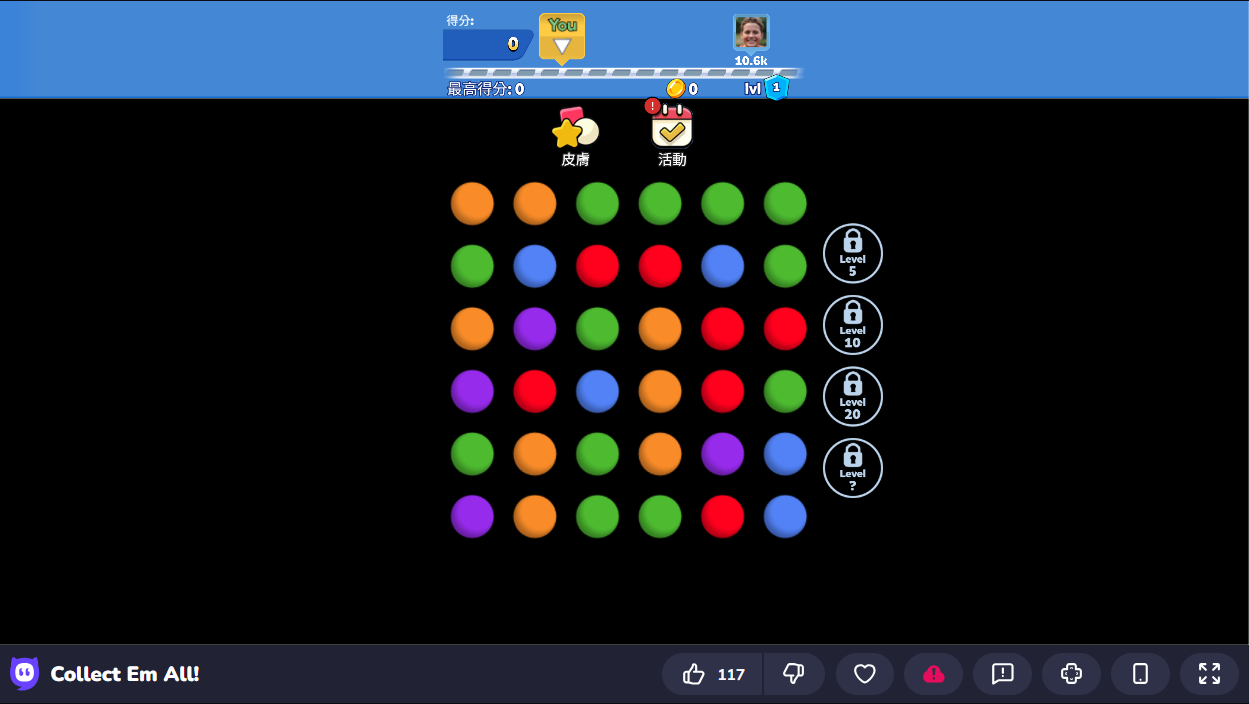
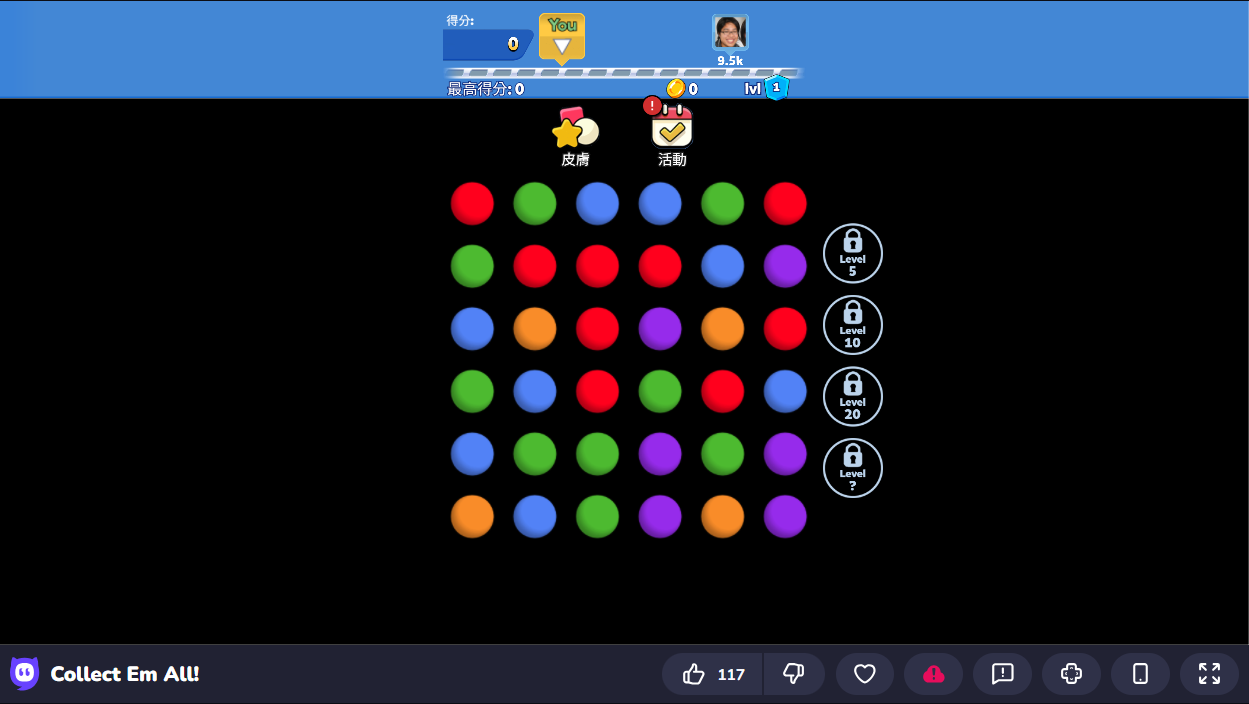
在main.py中加入DFS

diff --git a/main.py b/main.py
@@ -3,8 +3,18 @@ from enum import Enum
 from pyscreeze import Box
 from PIL import Image
 from typing import Any
+from keyboard import is_pressed
 from playwright.sync_api import sync_playwright, Playwright, Page
 import pyautogui, time
+
+"""
+遊戲規則:
+對於每個點 可以跟八方位的任一個點(要same color)連線
+至少要連3個點 連完之後的點會全數消除
+上面的點會在下面空缺時往下補 最上面空缺則會隨機生成
+不須考慮沒有點可以連線的情況 盡量尋找最長的連線
+有步數限制(暫不考慮) 每次都重新偵測球(避免受特殊規則影響)
+"""
 
 class Colors(Enum):
     # 各種顏色(RGB)
@@ -41,6 +51,12 @@ class Point:
         ''' 初始化座標 '''
         self.x: int = int(x)
         self.y: int = int(y)
+    
+    def near(self, other: Point) -> bool:
+        """ 檢查兩個點之間是否可以互通 """
+        if abs(other.x-self.x) > 1: return False
+        if abs(other.y-self.y) > 1: return False
+        return True
     
     @property
     def pair(self) -> tuple[int, int]:
@@ -155,13 +171,13 @@ def read_matrix(image_path: str = screenshot_path) -> None:
         for u_box in all_locations:
             # 計算兩個中心點的距離
             dist = ((box.left - u_box.left)**2 + (box.top - u_box.top)**2)**0.5
-            # 如果距離小於 n 像素，視為同一顆球
+            # 如果距離小於 n 像素 視為同一顆球
             if dist < 10:
                 is_duplicate = True
                 break
         if not is_duplicate:
             all_locations.append(box)
-    print(f"DEBUG: 原始找到 {len(locations)} 個點，去重後剩餘 {len(all_locations)} 顆球")
+    print(f"DEBUG: 原始找到 {len(locations)} 個點 去重後剩餘 {len(all_locations)} 顆球")
     if len(all_locations) != 36: raise RuntimeError("找不到6*6=36顆球")
     
     # 分成一個個 row 並加入 color_matrix && point_matrix
@@ -189,9 +205,9 @@ def drag_path(page: Page, points: list[Point]):
     page.mouse.move(*first_point.pair)
     page.mouse.down()
     print(f"DEBUG: 在 {first_point} 按下滑鼠")
-    # 迴圈拖曳
-    for point in points[1:]: # 跳過第一個 (只要按下去，不用拖曳)
-        # 拖曳 (step是移動平滑度，可以調整)
+    # 迴圈拖曳(跳過第一個)
+    for point in points[1:]:
+        # 拖曳 (step是移動平滑度 可以調整)
         pixel = pixel_pos(point)
         page.mouse.move(*pixel.pair, steps=5)
         print(f"DEBUG: 移動滑鼠至 {pixel}")
@@ -199,6 +215,73 @@ def drag_path(page: Page, points: list[Point]):
     # 鬆開滑鼠
     page.mouse.up()
     print(f"DEBUG: 在 {last_point} 鬆開滑鼠")
+
+# 尋找周圍同色鄰居
+def get_neighbors(point: Point, color_matrix: list[list[Colors]]) -> list[Point]:
+    """ 取得周圍同色球的座標 """
+    neighbors: list[Point] = []
+    point_color = color_matrix[point.y][point.x]
+    # 八方位找
+    for offset_x in [-1, 0, 1]:
+        for offset_y in [-1, 0, 1]:
+            # 記錄座標
+            detect_point = point+Point(offset_x, offset_y)
+            x, y = detect_point.x, detect_point.y
+            # 跳過自己 && 邊界檢查
+            if (offset_x == 0 and offset_y == 0): continue
+            if (x < 0 or y < 0 or x > 5 or y > 5): continue
+            # 比較顏色
+            if color_matrix[y][x] == point_color:
+                neighbors.append(detect_point)
+    return neighbors
+
+# 尋找最長連線
+def find_longest_move(color_matrix: list[list[Colors]]) -> list[Point]:
+    """ 由左上開始DFS 尋找過的點就消除 分岔就兩個都跑一遍 """
+    visited: list[list[bool]] = [[False for _ in range(6)] for __ in range(6)]
+    best_path: list[Point] = []
+    best_len = 0
+    row, column = 0, -1
+    # 開始訪問
+    while (row <= 5 and column <= 5):
+        # 下一個點
+        row += (column+1)//6
+        column = (column+1)%6
+        # 略過已訪問的點
+        if visited[row][column]: continue
+        # DFS 並更新最佳路線
+        visits = DFS(Point(column, row), color_matrix)
+        visit_len = len(visits)
+        if visit_len >= 3 and visit_len > best_len:
+            best_path = visits
+            best_len = visit_len
+        # 標記尋訪過的點
+        for visit in visits: visited[visit.y][visit.x] = True 
+    return best_path
+
+# 核心演算法: DFS
+def DFS(point: Point, color_matrix: list[list[Colors]], current_path: list[Point] = []) -> list[Point]:
+    """ 
+    深度優先搜尋：利用回溯尋找該區域內最長的路徑。
+    current_path 用於記錄目前已經走過的點，避免循環連線。
+    """
+    if not current_path: current_path = [point]
+    best_sub_path = list(current_path)
+    # 取得周圍同色鄰居
+    neighbors = get_neighbors(point, color_matrix)
+    for neighbor in neighbors:
+        # 檢查這個鄰居是否已經在目前的路徑中（不可重複使用同一個點）
+        if any(p.x == neighbor.x and p.y == neighbor.y for p in current_path):
+            continue 
+        # 前進: 加入路徑並繼續向下探索
+        current_path.append(neighbor)
+        res_path = DFS(neighbor, color_matrix, current_path)
+        # 比較: 如果這條分岔走出來的路比較長，就更新它
+        if len(res_path) > len(best_sub_path):
+            best_sub_path = list(res_path)
+        # 回溯: 將點移除，讓下一個鄰居的分岔可以重新嘗試走這條路
+        current_path.pop()
+    return best_sub_path
 
 # 主程式函數
 def main():
@@ -217,30 +300,37 @@ def main():
     print("正在辨識遊戲框架...")
     game_element = page.locator("#game-iframe")
     game_element.scroll_into_view_if_needed()
-    time.sleep(4)           # 等遊戲載入，可調
-    game_element.screenshot(path=screenshot_path)
-    rect = game_element.bounding_box()
+    time.sleep(4)           # 等遊戲載入 可調
     game_element.click()    # 聚焦
+    rect = game_element.bounding_box()
     if not rect: raise RuntimeError("找不到遊戲框架")
     iframe_topleft = Point(rect['x'], rect['y'])
     print(f"成功鎖定遊戲區域")
     
-    print("在偵測縮放比例")
     dpr = page.evaluate("window.devicePixelRatio")
     print(f"DEBUG: 偵測到螢幕縮放倍率為: {dpr}")
     
-    print("正在讀取各格的顏色...")
-    read_matrix(screenshot_path)
-    print("DEBUG: ")
-    output_matrix(color_matrix)
+    print("正在遊玩...")
+    while True:
+        # Esc 可以退出
+        if is_pressed("esc"): break
+        
+        print("\t正在讀取各格的顏色...")
+        game_element.screenshot(path=screenshot_path)
+        read_matrix(screenshot_path)
+        output_matrix(color_matrix)
+        
+        print("\t連線中...")
+        longest_move = find_longest_move(color_matrix)
+        drag_path(page=page, points=longest_move)
     
-    print(f"iframe_topleft: {iframe_topleft}")
-    print(f"pixel_pos(Point(0, 0)): {pixel_pos(Point(0, 0))}")
-    drag_path(page, [Point(0, 0), Point(1, 0), Point(0, 1), Point(1, 1)])
+    # print(f"iframe_topleft: {iframe_topleft}")
+    # print(f"pixel_pos(Point(0, 0)): {pixel_pos(Point(0, 0))}")
+    # drag_path(page, [Point(0, 0), Point(1, 0), Point(0, 1), Point(1, 1)])
     
     print("正在關閉網頁...")
-    # browser.close()
+    browser.close()
     print("程式執行完畢")
 
-# 執行main
+# 執行 main()
 if __name__ == "__main__": main()
